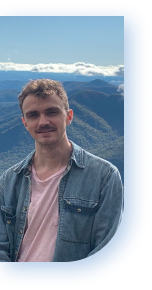
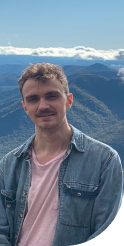
css mainpage updates

diff --git a/css/main.css b/css/main.css
@@ -38,7 +38,6 @@ section.headline {
 .headertext h4{
   font-size: 18px;
   font-family: "muli", sans-serif;
-  font-style: "light";
   font-weight: 300;
   color: #ffffff;
   line-height: .25rem;
@@ -46,25 +45,28 @@ section.headline {
 
 /*Logo*/
 .logo{
-  width: 3.125rem;
-  height:4.375rem;
+  width: 8%;
+  height: 8%;
   padding-right: 1rem;
 }
 
 /*overall navbar box*/
 .navbar {
   display: flex;
+  position: relative;
   justify-content: flex-end;
   align-items: center;
   width: 100%;
   height: 2.68rem;
-  background-color: rgba(83, 140, 207, 0.8);
+  background-color: rgba(55, 120, 195, .4);
+  /*mix-blend-mode: multiply;*/
 }
 
-/*overall navbar-text style reset and placement*/
+/*overall navbar-text style 'li' reset and placement*/
 .navbar ul {
   display: flex;
   justify-content: flex-end;
+  align-items: center;
   padding: 0;
   margin: 0;
   margin-right: 2%;
@@ -87,18 +89,16 @@ section.headline {
 
 /* overall greeting box */
 .greeting {
-  box-sizing: border-box;
   display: flex;
   align-items: center;
   justify-content: space-between;
-
 }
 
 @media ( min-width: 700px) {
-  .greeting{
-    justify-content: center;
-    padding-left: 15%;
-    padding-right: 15%;
+.greeting{
+  justify-content: space-between;
+  margin-left: 10%;
+  margin-right: 10%;
   }
 }
 
@@ -108,58 +108,62 @@ section.headline {
 }
 
 @media (min-width: 700px){
-  .mobile{
-    display:none;
+.mobile{
+  display:none;
   }
-  .desktop{
-    display:block;
+.desktop{
+  display:block;
   }
 }
 
 /* portrait sizing/styling */
 .greeting img {
   width: 45%;
-
+  box-shadow: 6px 6px 22px rgba(55, 120, 195, 0.4);
+  border-radius: 0px 0px 150px 0px;
 }
 
 @media ( min-width: 700px) {
-  .greeting img {
-      width: 60%;
-      padding-top: 5%;
+.greeting img {
+  max-width: 70%;
+  padding-top: 5%;
+  box-shadow: none;
+  border-radius: 0px;
   }
 }
 
 /* greeting text box */
 .hey {
-  width: 60%;
+  width: 50%;
   justify-content: center;
   align-items: center;
+  margin-left: 5%;
   margin-right: 2%;
 }
 
 @media ( min-width: 700px) {
-  .hey {
-    width: 40%;
-    margin-right: 0;
+.hey {
+  width: 50%;
+  margin-right: 0;
   }
 }
 
 /*"Hey" text styling*/
-.greeting h2 {
-  font-size: 1.5em;
+.hey h2 {
+  font-size: 24px;
   font-family: "Playfair Display";
   color: #0F2A6E;
   text-decoration: none;
 }
 
 @media ( min-width: 700px) {
-  .greeting h2 {
-    font-size: 36px;
+.hey h2 {
+  font-size: 36px;
   }
 }
 
 /*greeting body text styling*/
-.greeting p{
+.hey p{
   font-size: 1em;
   font-family: "muli";
   font-weight: 300;
@@ -169,8 +173,8 @@ section.headline {
 }
 
 @media ( min-width: 700px) {
-  .greeting p{
-    font-size: 18px;
+.hey p{
+  font-size: 18px;
   }
 }
 
@@ -178,30 +182,31 @@ section.headline {
 .selected-work {
   box-sizing: border-box;
   display: block;
-
+  margin-top: 10%;
+  margin-bottom: 8%;
 }
 
 @media ( min-width: 700px) {
 .selected-work {
+  margin-top: 0;
   box-sizing: border-box;
   justify-content: center;
-
   }
 }
 
 /*"selected works" styling"*/
 .selected-work h2 {
-    font-size: 1.5em;
-    font-family: "Playfair Display";
-    color: #0F2A6E;
-    text-decoration: none;
-    padding-left: 5%;
-  }
+  font-size: 24px;
+  font-family: "Playfair Display";
+  color: #0F2A6E;
+  text-decoration: none;
+  margin-left: 10%;
+ }
 }
 
 @media ( min-width: 700px) {
-  .selected-work h2 {
-    font-size: 36px;
+.selected-work h2 {
+  font-size: 36px;
   }
 }
 
@@ -215,7 +220,9 @@ section.headline {
 
 @media ( min-width: 700px) {
 .container {
-  justify-content: space-around;
+  justify-content: space-between;
+  margin-left: 10%;
+  margin-right: 10%;
   }
 }
 
@@ -237,13 +244,15 @@ section.headline {
 }
 
 /*Mine case study box*/
-  .mine {
+.mine {
   width: 75%;
 }
 
 @media ( min-width: 700px) {
-  .mine {
-    width: 45%;
+.mine {
+  width: 45%;
+  max-width: 450px;
+  max-height: 100%;
   }
 }
 
@@ -251,8 +260,6 @@ section.headline {
 .mine img{
   width: 100%;
 }
-
-
 
 /*Busybus case study box*/
 .bus {
@@ -262,20 +269,50 @@ section.headline {
 @media ( min-width: 700px) {
   .bus {
   width: 45%;
+  max-width: 450px;
+  max-height: 100%;
   }
 }
 
+/*Busybus image*/
 .bus img{
   width: 100%;
 }
 
-
-section.footer {
-
+/*overall footer box*/
+.footer {
+  display: flex;
+  justify-content: flex-end;
+  align-items: center;
+  width: 100%;
+  height: 2.68rem;
+  background-color: rgba(55, 120, 195, 1);
 
 }
 
+/*overall footer-text style 'li' reset and placement*/
+.footer ul {
+  display: flex;
+  justify-content: flex-end;
+  align-items: center;
+  padding: 0;
+  margin: 0;
+  margin-right: 2%;
+}
 
+/*footer list item alignment and spacing*/
+.footer ul li {
+  display: block;
+  margin-left: 2rem;
+}
+
+/*footer font*/
+.footer ul li a{
+  font-size: 18px;
+  font-family: "muli", sans-serif;
+  font-weight: 300;
+  text-decoration: none;
+  color: #ffffff;
 
 
 /* ==========================================================================

diff --git a/index.html b/index.html
@@ -42,43 +42,40 @@
           <section class="greeting">
             <img src="img/portrait-mobile.png" class="mobile">
             <img src="img/portrait.svg" class="desktop">
-            <div class="hey">
-              <h2>Hey</h2>
-              <p> I’m a UX Generalist with a background in fine jewelry looking for a place to contribute and grow. Process oriented problem solver, and Figma based designer comfortable researching or prototyping.</p>
-            </div>
+              <div class="hey">
+                <h2>Hey</h2>
+                <p> I’m a UX Generalist with a background in fine jewelry looking for a place to contribute and grow. Process oriented problem solver, and Figma based designer comfortable researching or prototyping.</p>
+              </div>
           </section>
 
           <article class="selected-work">
             <h2>Selected Works</h2>
+              <section class="container">
 
-            <section class="container">
+                <div class="mine">
+                  <h3>Mine</h3>
+                  <p>A research-backed, minimal cloud storage solution that prioritizes organization with a novel UI and dashboard layout.</p>
+                  <img src="img/cloud.png">
+                  <a href="mine.html" class="work-button">View Case Study</a>
+                </div>
 
-            <div class="mine">
-              <h3>Mine</h3>
-              <p>A research-backed, minimal cloud storage solution that prioritizes organization with a novel UI and dashboard layout.</p>
-              <img src="img/cloud.png">
-              <a href="mine.html" class="work-button">View Case Study</a>
-            </div>
+                <div class="bus">
+                  <h3>Busy Bus</h3>
+                  <p>A bus stop tracking app that solved the problem of riders not knowing when their bus was arriving at a particular stop.</p>
+                  <img src="img/busybus.png">
+                  <a href="busybus.html" class="work-button">View Case Study</a>
+                </div>
 
-            <div class="bus">
-              <h3>Busy Bus</h3>
-              <p>A bus stop tracking app that solved the problem of riders not knowing when their bus was arriving at a particular stop.</p>
-              <img src="img/busybus.png">
-              <a href="busybus.html" class="work-button">View Case Study</a>
-            </div>
-
-          </section>
-
+              </section>
           </article>
-
         </main>
 
         <footer>
           <nav class="footer">
             <ul>
               <li><a href="mailto:j.moriarty721@gmail.com">Contact</a></li>
+              <li><a href="https://www.linkedin.com/in/johnmoriarty-/"><img src="img/linkedin.png"></a></li>
               <li><a href="https://github.com/jmoriarty721"><img src="img/github.svg"></a></li>
-              <li><a href="https://www.linkedin.com/in/johnmoriarty-/"><img src="img/linkedin.svg"></a></li>
             </ul>
           </nav>
         </footer>
